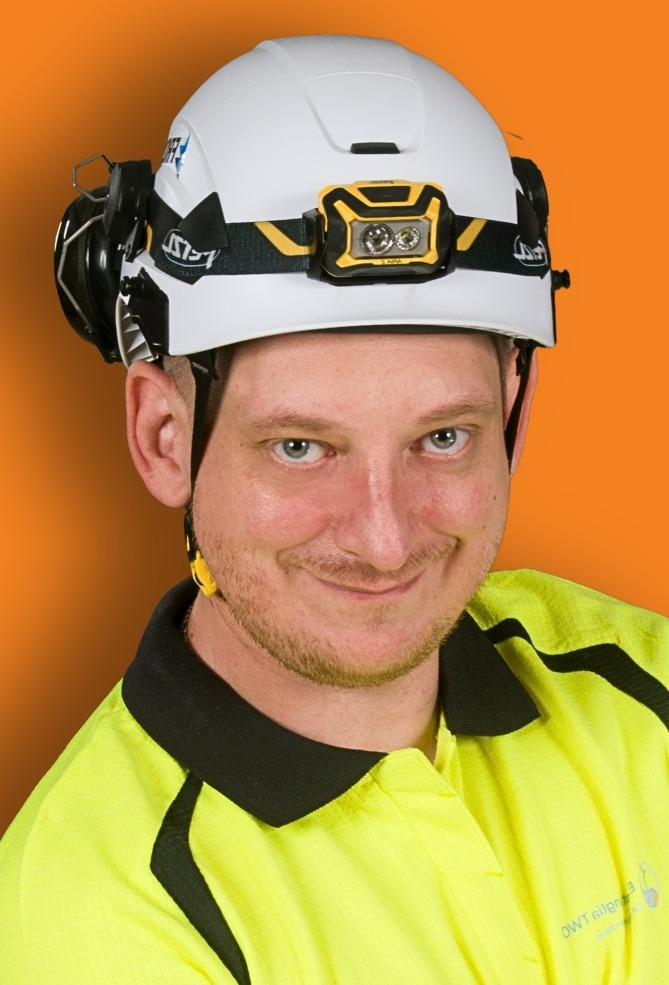
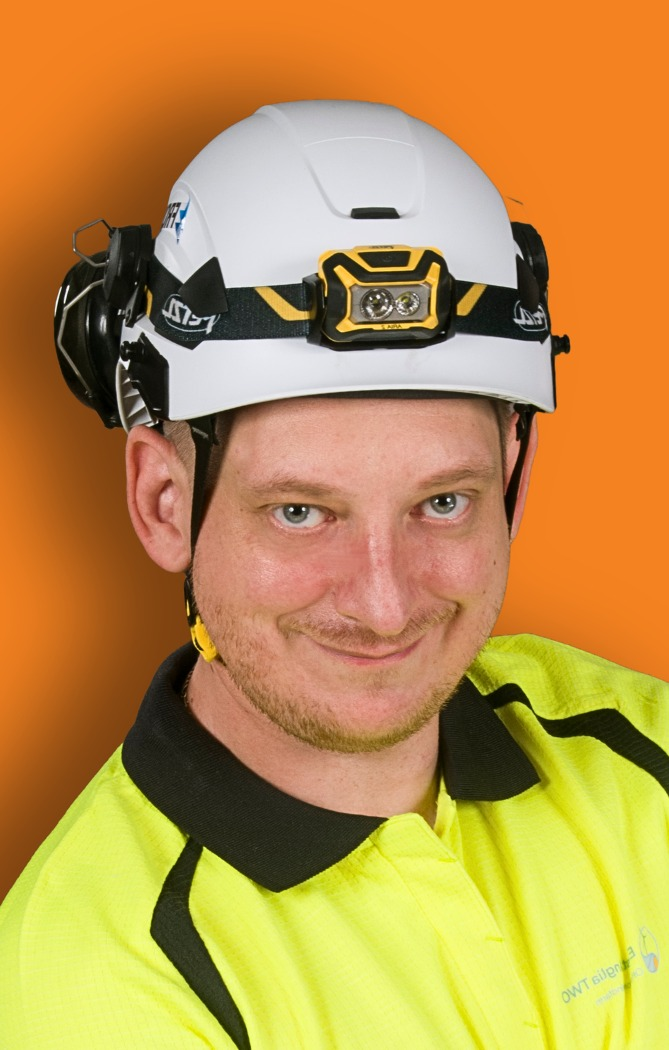
Add files via upload

diff --git a/index.html b/index.html
@@ -77,7 +77,7 @@
           <a href="cv-maciej-kochel.pdf" target="_blank" rel="noopener" class="btn btn-ghost">View CV</a>
         </div>
       </div>
-      <div class="hero-photo" aria-hidden="true"><img src="assets/hero-photo.jpg" alt="" width="669" height="985"></div>
+      <div class="hero-photo" aria-hidden="true"><img src="assets/hero-photo.jpg" alt="" width="669" height="1050"></div>
     </div>
     <div class="weld-line" aria-hidden="true"></div>
   </section>

diff --git a/style.css b/style.css
@@ -146,7 +146,7 @@ button:focus-visible {
   flex: 0 0 300px;
   margin: 3.5rem 0 1.5rem;
   border-left: 0.5px solid var(--border);
-  border-radius: 8px;
+  border-radius: 4px;
   overflow: hidden;
 }
 
@@ -154,7 +154,7 @@ button:focus-visible {
   width: 100%;
   height: 100%;
   object-fit: cover;
-  object-position: center;
+  object-position: center 15%;
   display: block;
 }
 
